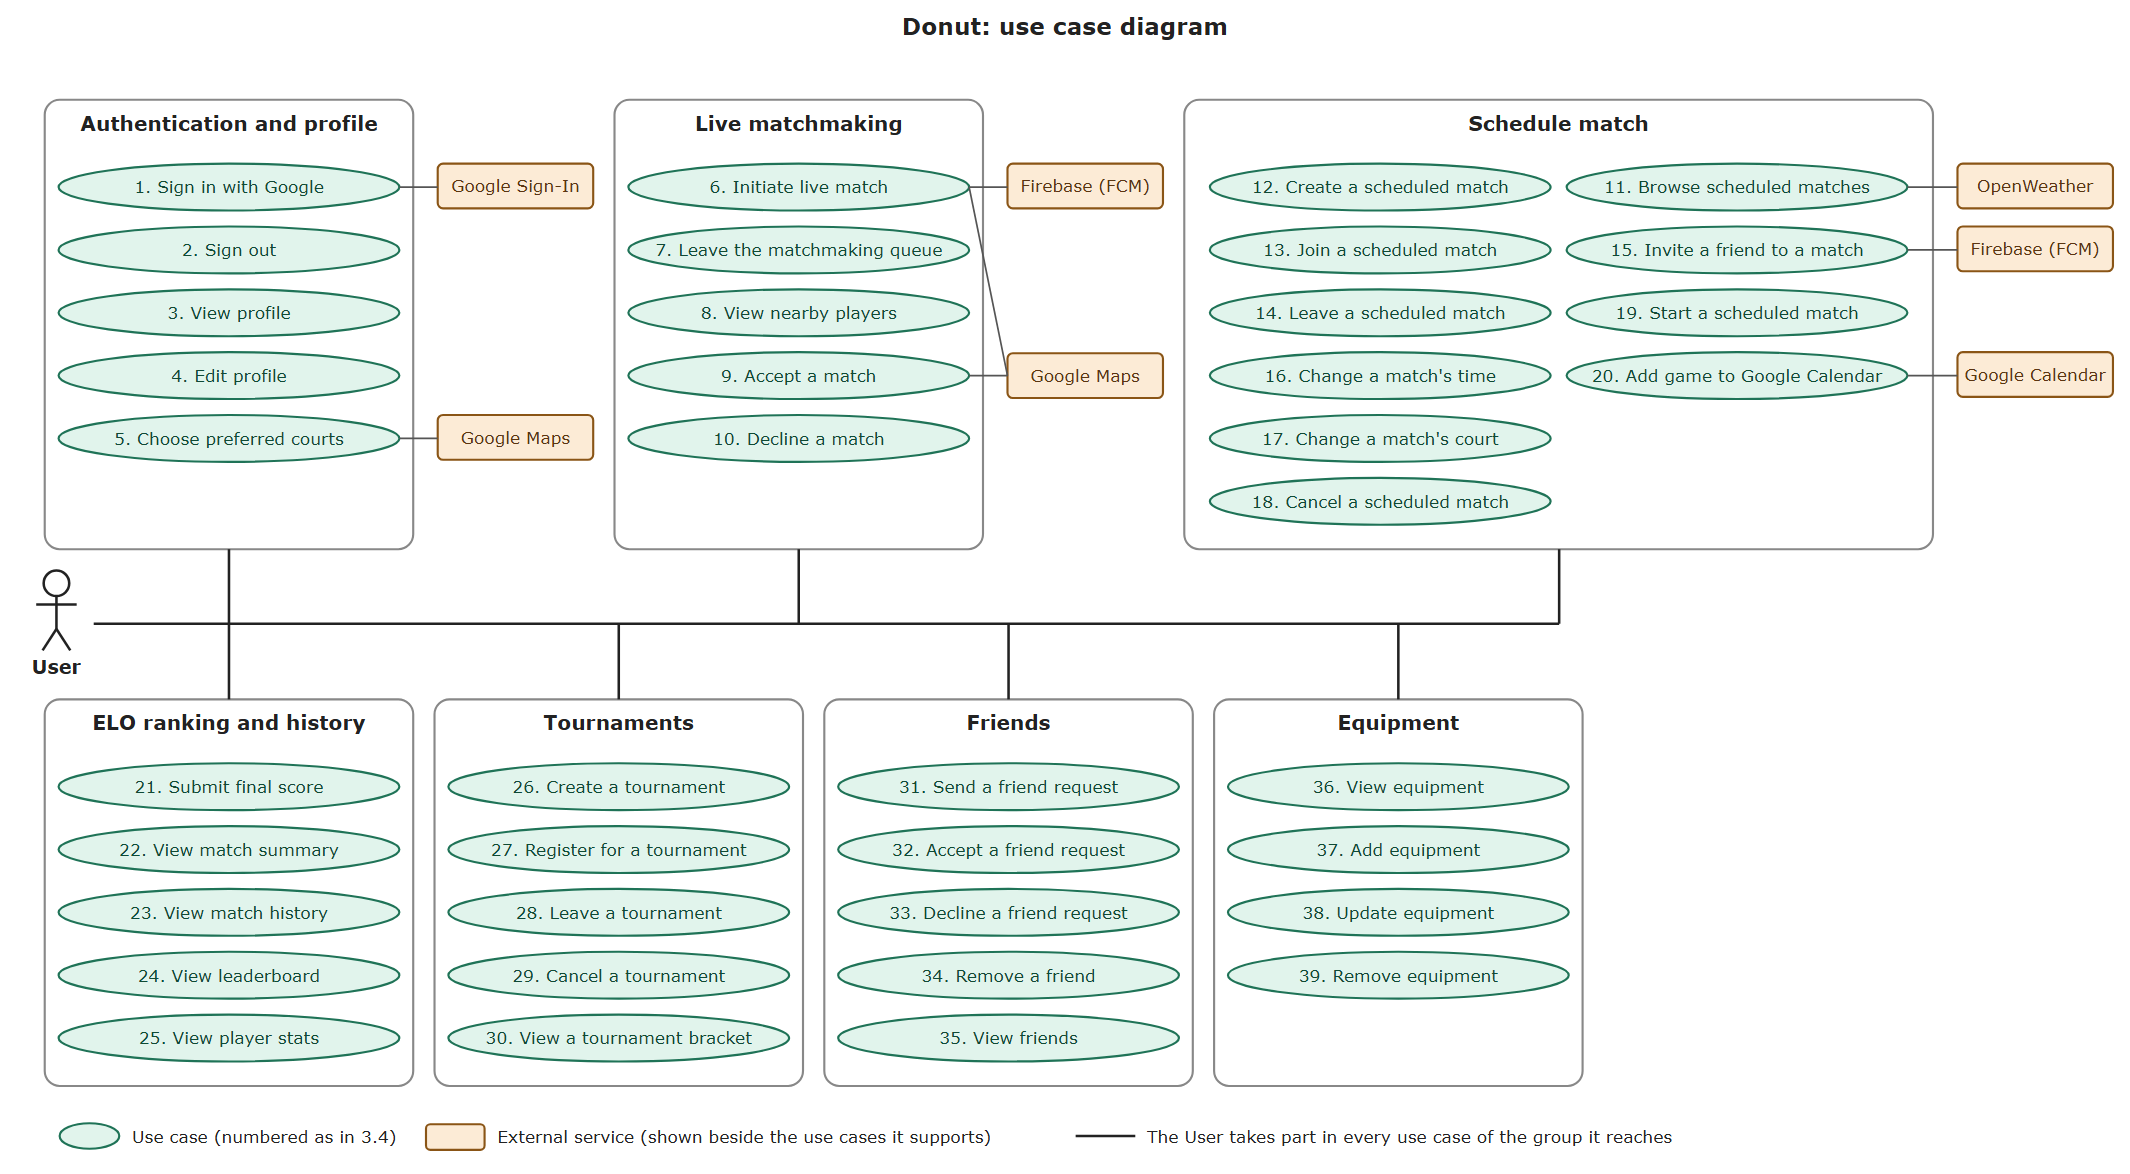
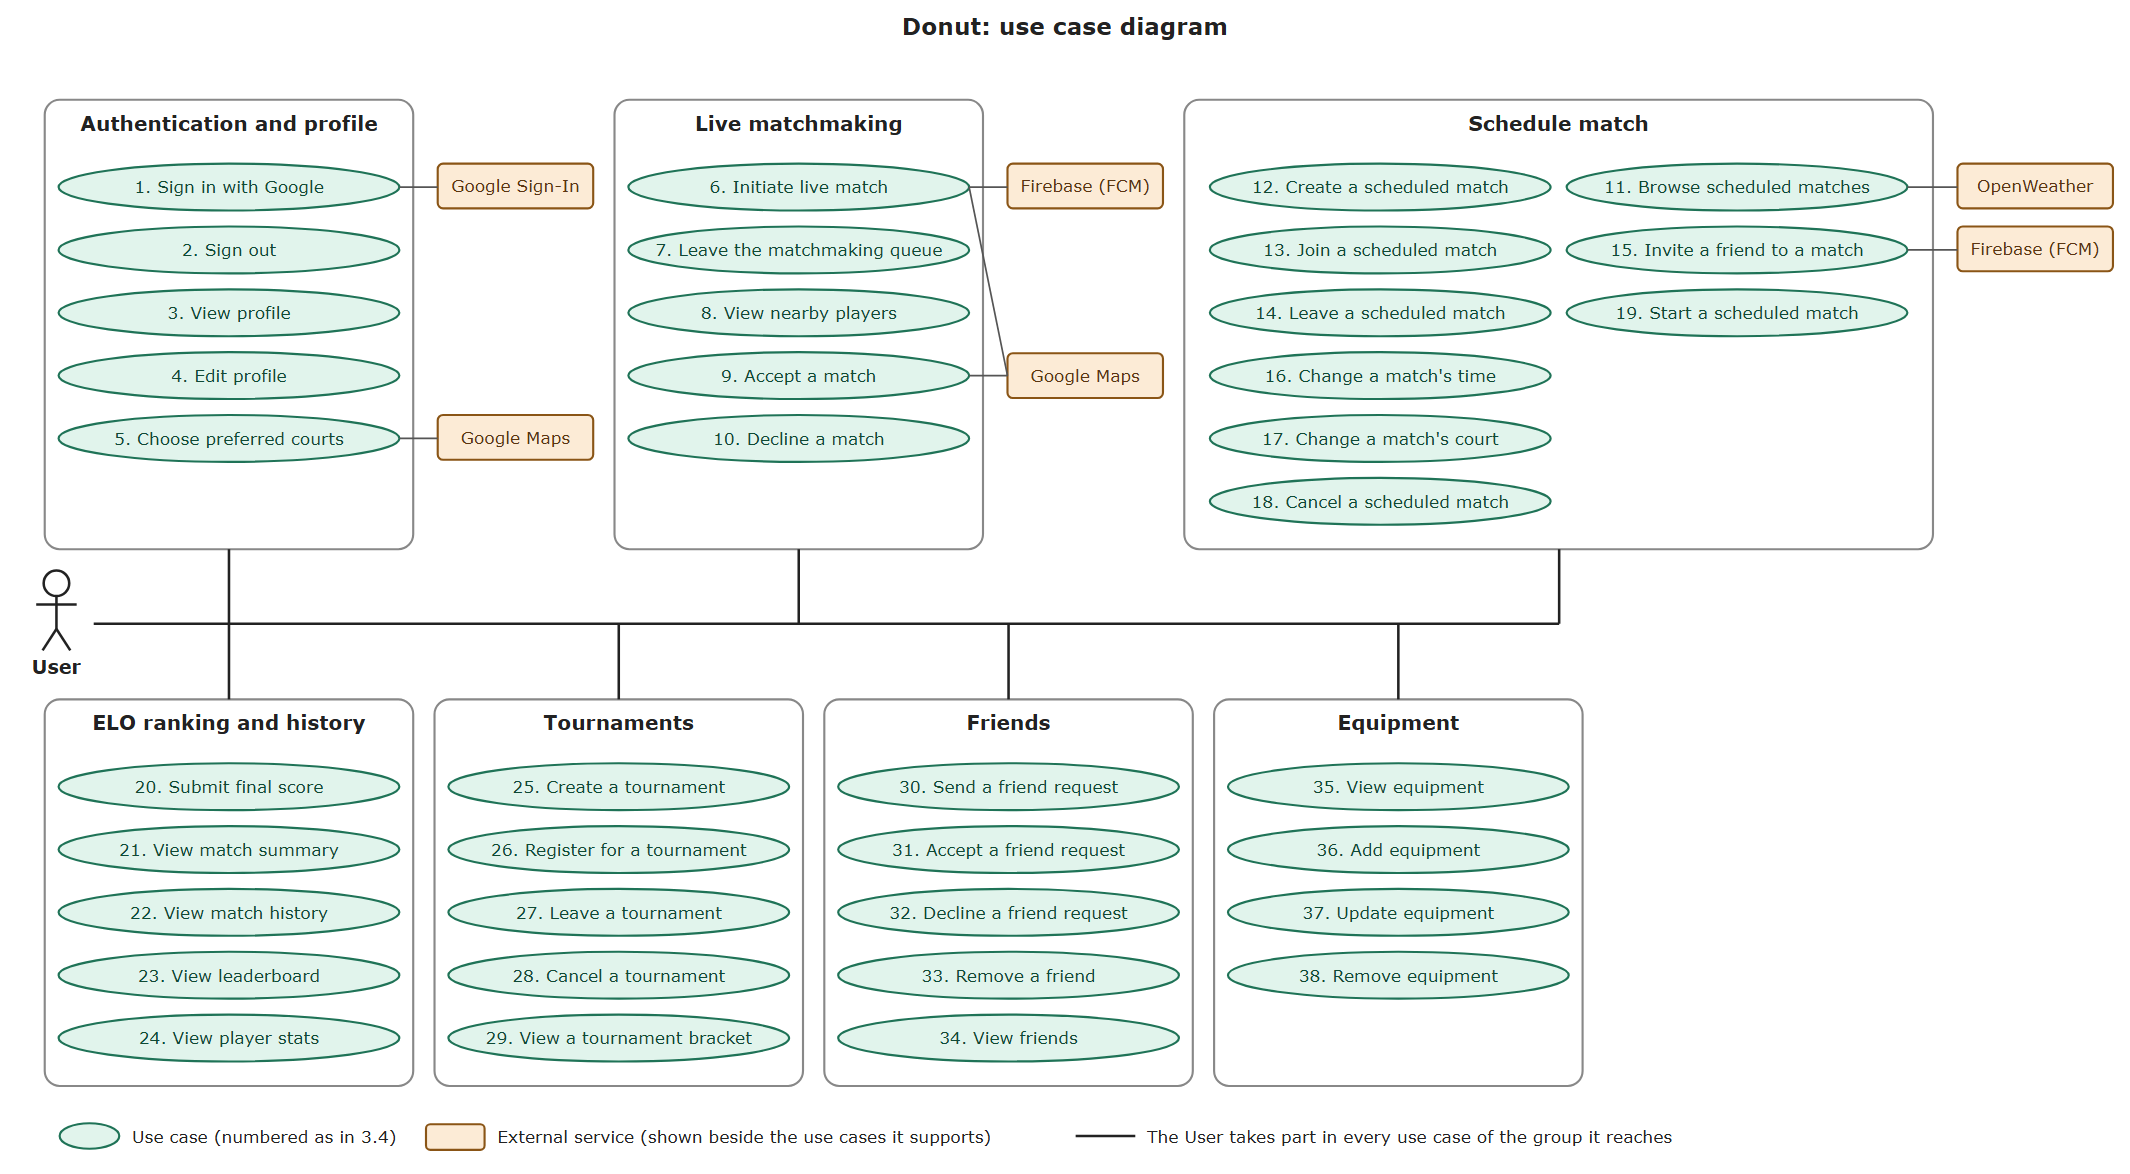
docs: remove Google Calendar from the requirements and use case diagram

Changed region(s): [[0.7127, 0.276, 1.0, 0.368]]

diff --git a/documentation/Requirements_and_Design.md b/documentation/Requirements_and_Design.md
@@ -26,7 +26,7 @@
 | Nov 20, 2026 | 3.7, 4.7 | Added NFR 4, rating accuracy for new players, which `backend/tests/nfr/ratingAccuracy.test.ts` checks. |
 | Nov 20, 2026 | 3.1, 3.2, 3.4, 3.5, 4.6 | Reviewer feedback on features and use cases: split use cases that had more than one goal, added the missing user-facing use cases (sign out, profile, leave the queue, decline a match, friends, equipment, match history, stats), moved system-only steps out of the use case list and gave every use case an active, user-focused name. Redrew the use case diagram. |
 | Nov 20, 2026 | 3.1, 3.2, 3.3, 3.4, 3.5, 3.7, 4.1, 4.3, 4.6, 4.7 | Every feature that was not yet built is now implemented, so the notes saying so are removed. Removed the live score feature, its use cases and its non-functional requirement: players report the score once after the game. Added a fifth formal use case, Join a scheduled match. |
-| Nov 20, 2026 | 3.1, 3.2, 3.4, 3.5, 4.1, 4.5, 4.6 | Diagrams matched to the code, plus a Join a scheduled match diagram. Check-in replaced by "Start now" (Use Case 2, Start a scheduled match); players opt out by leaving or cancelling. Courts moved out of Users into their own component. Restored the score confirmation and `GET /matchmaking/events` text lost in a merge. |
+| Nov 20, 2026 | 3.1, 3.2, 3.3, 3.4, 3.5, 4.1, 4.3, 4.5, 4.6 | Removed Google Calendar. Diagrams matched to the code, plus a Join a scheduled match diagram. Check-in replaced by "Start now" (Use Case 2, Start a scheduled match); players opt out by leaving or cancelling. Courts moved out of Users into their own component. Restored the score confirmation and `GET /matchmaking/events` text lost in a merge. |
 
 ---
 
@@ -47,7 +47,7 @@ Users sign in with Google. The backend then issues its own access and refresh to
 Users pick a format (singles, doubles or either) and where they want to play. The system matches nearby players with similar ratings, books a game one hour later at a nearby court and notifies everyone. The game is booked once every player accepts.
 
 #### **Schedule match**
-Users schedule a game for a future time at a court they pick from a list. It shows in the feed with the weather forecast, and others can join it or be invited by a friend. Users can add it to Google Calendar.
+Users schedule a game for a future time at a court they pick from a list. It shows in the feed with the weather forecast, and others can join it or be invited by a friend.
 
 #### **ELO ranking**
 After every player of a game confirms its final score, every player's ELO rating changes, and a leaderboard ranks players by rating. A player's stats screen shows their ELO over time, their match, set and game totals, and how they do against opponents of different ratings.
@@ -58,7 +58,7 @@ Users create an 8-team single-elimination tournament (singles or doubles) that p
 Supporting features: **friends** (requests, friends list, adding players from a match summary), **match history** with a summary per game, and **equipment** tracking (rackets, balls, shoes, with maintenance dates).
 
 **Project scope requirements:**
-- **External API**: Google Maps (picking courts), Google Places (picking where to play), OpenWeather (feed forecasts), Google Calendar (adding booked games).
+- **External API**: Google Maps (picking courts), Google Places (picking where to play), OpenWeather (feed forecasts).
 - **External event**: match notifications, game invites and requests to confirm a score through Firebase Cloud Messaging.
 - **Our own computation**: the matching algorithm, ELO with margin of victory, and the tournament draw (rating-based seeding, balanced doubles teams, moving winners through the bracket).
 
@@ -72,8 +72,7 @@ Use cases are numbered as in §3.4. The User takes part in every use case of eac
 2. **Google Sign-In**: authenticates players.
 3. **Google Maps Platform**: shows a matched game's court on a map, and Places looks up where a player wants to play.
 4. **Firebase Cloud Messaging**: delivers match notifications and game invites.
-5. **OpenWeather**: supplies forecasts for the feed.
-6. **Google Calendar**: stores booked games in the player's calendar.
+5. **OpenWeather**: supplies forecasts for the feed.
 
 ### **3.4. Use Case Description**
 Each use case is one goal of one user, named with an active verb. The numbers match the diagram in §3.2.
@@ -102,40 +101,39 @@ Each use case is one goal of one user, named with an active verb. The numbers ma
 17. **Change a match's court**: A player moves the game to another court.
 18. **Cancel a scheduled match**: A player cancels the game for everyone.
 19. **Start a scheduled match**: At the court, a player of a booked game taps "Start now" to start it for everyone, so its score can be reported.
-20. **Add game to Google Calendar**: The user adds a booked game to their calendar.
 
 - Feature 4: ELO ranking and history
-21. **Submit final score**: A player reports the final score and every other player confirms it, or suggests a correction that everyone confirms again. Once everyone agrees, every player sees the match summary with their rating change. A tournament match is scored the same way.
-22. **View match summary**: The user views a finished game's score and each player's rating before and after.
-23. **View match history**: The user views their finished games, most recent first.
-24. **View leaderboard**: The user views players ranked by rating, with their own rank.
-25. **View player stats**: The user views a player's ELO over time, match, set and game totals, and results against opponents of different ratings.
+20. **Submit final score**: A player reports the final score and every other player confirms it, or suggests a correction that everyone confirms again. Once everyone agrees, every player sees the match summary with their rating change. A tournament match is scored the same way.
+21. **View match summary**: The user views a finished game's score and each player's rating before and after.
+22. **View match history**: The user views their finished games, most recent first.
+23. **View leaderboard**: The user views players ranked by rating, with their own rank.
+24. **View player stats**: The user views a player's ELO over time, match, set and game totals, and results against opponents of different ratings.
 
 - Feature 5: Tournaments
-26. **Create a tournament**: The user creates a tournament with a name, format, court and start time, and is registered as its first player.
-27. **Register for a tournament**: The user registers from the feed until it is full (8 players in singles, 16 in doubles) or starts. The registration that fills it triggers the bracket draw (see *System steps* below).
-28. **Leave a tournament**: The user leaves during registration. The creator can't leave but can cancel it.
-29. **Cancel a tournament**: The creator cancels a tournament that is still in registration.
-30. **View a tournament bracket**: The user views the bracket and opens each match, which is played like any game (use cases 19 and 21).
+25. **Create a tournament**: The user creates a tournament with a name, format, court and start time, and is registered as its first player.
+26. **Register for a tournament**: The user registers from the feed until it is full (8 players in singles, 16 in doubles) or starts. The registration that fills it triggers the bracket draw (see *System steps* below).
+27. **Leave a tournament**: The user leaves during registration. The creator can't leave but can cancel it.
+28. **Cancel a tournament**: The creator cancels a tournament that is still in registration.
+29. **View a tournament bracket**: The user views the bracket and opens each match, which is played like any game (use cases 19 and 20).
 
 - Feature 6: Friends
-31. **Send a friend request**: The user asks another player to be friends, including from a match summary.
-32. **Accept a friend request**: The user accepts a request they received.
-33. **Decline a friend request**: The user declines a request they received.
-34. **Remove a friend**: The user removes a friend from their friends list.
-35. **View friends**: The user views their friends and the game each one is playing.
+30. **Send a friend request**: The user asks another player to be friends, including from a match summary.
+31. **Accept a friend request**: The user accepts a request they received.
+32. **Decline a friend request**: The user declines a request they received.
+33. **Remove a friend**: The user removes a friend from their friends list.
+34. **View friends**: The user views their friends and the game each one is playing.
 
 - Feature 7: Equipment
-36. **View equipment**: The user views their rackets, balls and shoes, with maintenance dates.
-37. **Add equipment**: The user adds an item and can make it their default.
-38. **Update equipment**: The user changes an item's name, default status or maintenance date.
-39. **Remove equipment**: The user retires an item.
+35. **View equipment**: The user views their rackets, balls and shoes, with maintenance dates.
+36. **Add equipment**: The user adds an item and can make it their default.
+37. **Update equipment**: The user changes an item's name, default status or maintenance date.
+38. **Remove equipment**: The user retires an item.
 
 **System steps (not use cases).** The user does not do these directly, so they are not in the diagram:
 - *Matchmaking* (part of use case 6): every 10 seconds, the system groups queued players who want a compatible format, are within 10 km of each other and have close ratings, books a game one hour later at a court near them and notifies everyone.
 - *Cancelling unanswered matches* (part of use cases 9 and 10): if anyone declines, or not everyone has accepted 30 minutes before the start, the system cancels the match for everyone.
-- *ELO change calculation and leaderboard update* (part of use case 21): the system calculates each player's rating change and applies it to the leaderboard.
-- *Bracket draw* (part of use case 27): when a tournament fills, the system forms the teams (in doubles, strongest with weakest), seeds them by rating, draws the bracket (1 v 8, 4 v 5, 3 v 6, 2 v 7) and books the quarterfinals. Each confirmed score moves the winner on, books the next match once both teams are known (semifinals one hour after the start, the final two hours after), and the final completes the tournament.
+- *ELO change calculation and leaderboard update* (part of use case 20): the system calculates each player's rating change and applies it to the leaderboard.
+- *Bracket draw* (part of use case 26): when a tournament fills, the system forms the teams (in doubles, strongest with weakest), seeds them by rating, draws the bracket (1 v 8, 4 v 5, 3 v 6, 2 v 7) and books the quarterfinals. Each confirmed score moves the winner on, books the next match once both teams are known (semifinals one hour after the start, the final two hours after), and the final completes the tournament.
 
 ### **3.5. Formal Use Case Specifications (5 Most Major Use Cases)**
 <a name="uc1"></a>
@@ -436,10 +434,6 @@ Every route except `POST /user/login`, `POST /user/refresh` and `POST /user/logo
     - **Interfaces we call**:
         1. `GET /data/2.5/forecast?lat&lon&units=metric&appid` - called by Games and Tournaments
             - **Purpose**: Picks the 3-hour step nearest the start time (within 1.5 hours). Not called for a start time more than 3 hours ago or more than 5 days away. Cached per court for 10 minutes, with a 2-second timeout; without `OPENWEATHER_API_KEY` or on failure, games have no forecast.
-5. **Google Calendar API**
-    - **Purpose**: Adds a booked game to the player's calendar.
-    - **Interfaces we call**:
-        1. `POST /calendars/primary/events` - called by the front-end
 
 ### **4.4. Frameworks and Libraries**
 1. **Express 5**: HTTP server and routing, with routes → controllers → services → repositories.

diff --git a/documentation/Product_Design.md b/documentation/Product_Design.md
@@ -34,7 +34,7 @@ The creator picks:
 
 Any player in a game can move it to another time or court, leave it (until 30 minutes before the start) or cancel it, and report or confirm its final score ([§6](#6-scoring)). There is no owner role.
 
-Planned: a calendar view of all games, adding games to Google Calendar, checking in at the court, and a live score during the game.
+Planned: a calendar view of all games.
 
 ## 5. Matchmaking
 
@@ -155,7 +155,6 @@ We will likely move to **Glicko** (the system chess.com uses). It adds a rating 
 | Google Maps Platform (Maps and Places) | Showing a matched game's court on a map, and the address to be matched near |
 | OpenWeather | Forecasts in the feed |
 | Firebase Cloud Messaging | Push notifications for matches, game invites and scores to confirm |
-| Google Calendar API (planned) | Adding games to the user's calendar |
 
 ## 9. Out of scope for now
 
